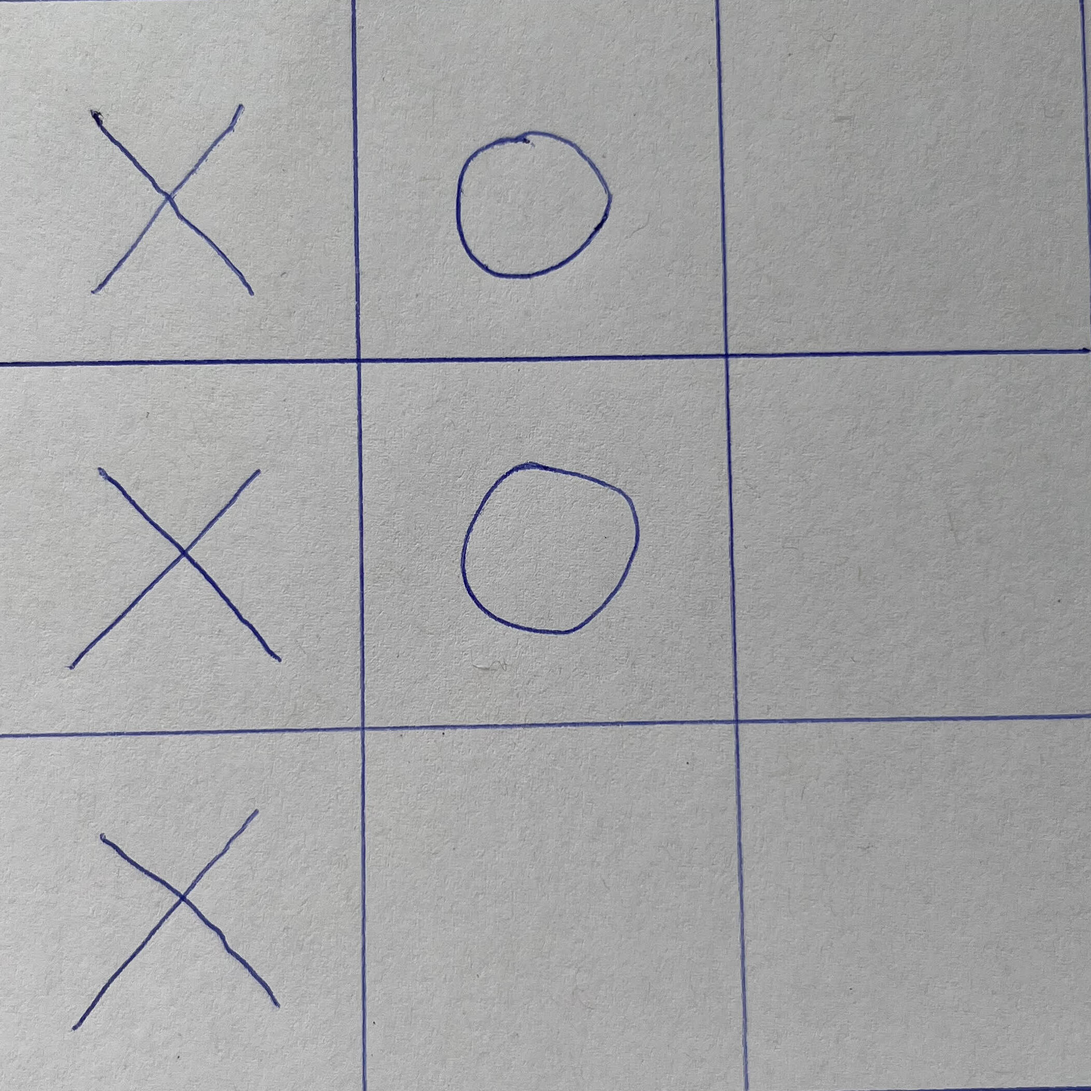
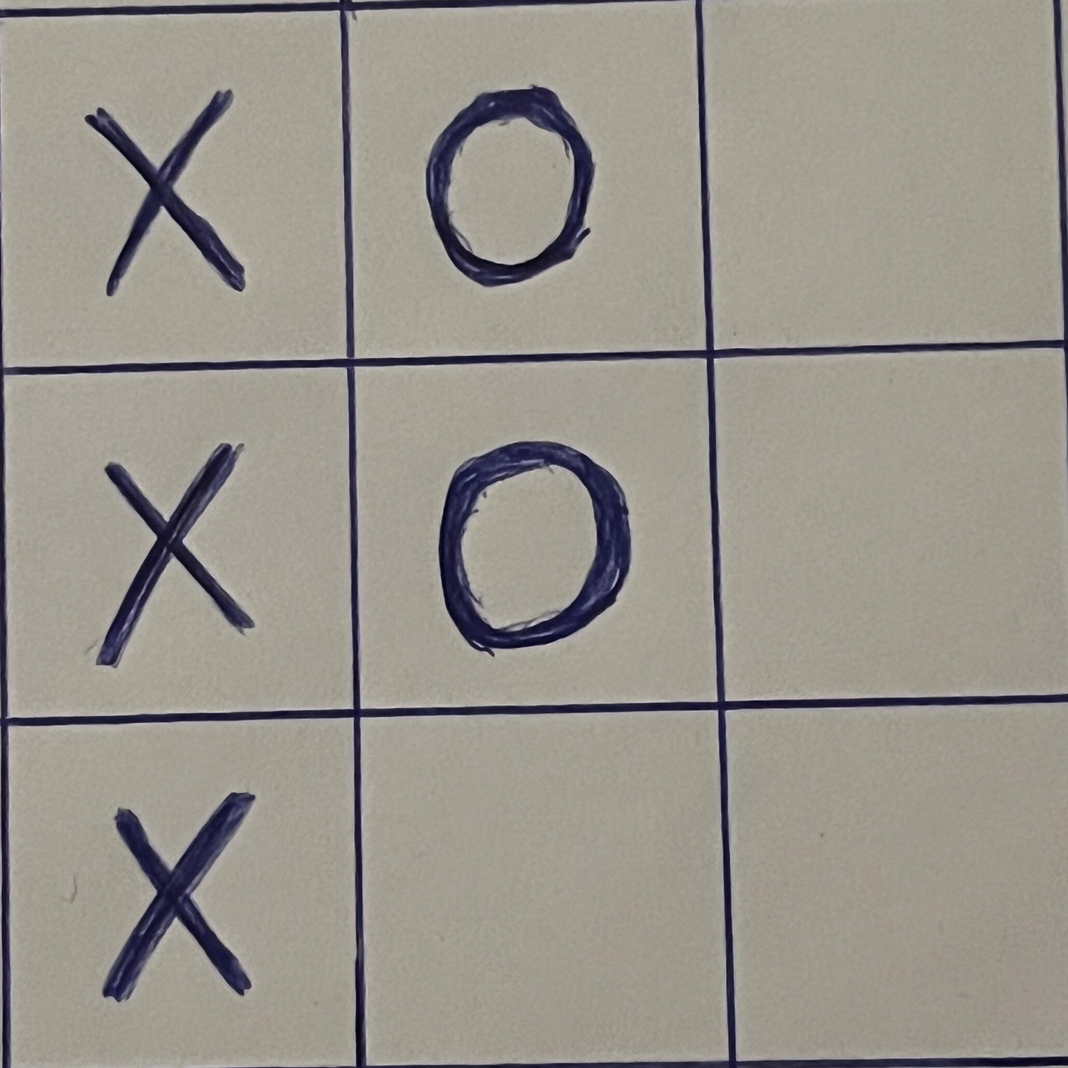
add hand drawn image

diff --git a/server/image_processing.py b/server/image_processing.py
@@ -5,7 +5,16 @@ import pytesseract
 from server.game_state import Symbol
 
 
-BORDER_CROP = 5 / 100
+BORDER_CROP = 10 / 100
+IMAGE_THRESHOLD = 100
+
+
+def preprocess_image(image: Image.Image) -> Image.Image:
+    grayscaled_image = image.convert("L")
+    binarized_image = grayscaled_image.point(
+        lambda p: 255 if p > IMAGE_THRESHOLD else 0
+    )
+    return binarized_image
 
 
 def crop_cell(image: Image.Image, *, row: int, col: int) -> Image.Image:
@@ -23,16 +32,17 @@ def crop_cell(image: Image.Image, *, row: int, col: int) -> Image.Image:
 
 def get_char_from_image(image: Image.Image) -> Symbol:
     char = str(pytesseract.image_to_string(image, config="--psm 10", lang="eng"))
-    return Symbol.from_char(char)
+    return Symbol.from_char(char[0] if len(char) > 0 else " ")
 
 
 def get_board_from_file(file: BinaryIO) -> list[list[Symbol]]:
     with Image.open(file) as uploaded_image:
+        preprocessed_image = preprocess_image(uploaded_image)
         image_array: list[list[Symbol]] = []
         for row in range(3):
             column_array: list[Symbol] = []
             for col in range(3):
-                cell = crop_cell(uploaded_image, row=row, col=col)
+                cell = crop_cell(preprocessed_image, row=row, col=col)
                 column_array.append(get_char_from_image(cell))
             image_array.append(column_array)
     return image_array

diff --git a/server/test_image_processing.py b/server/test_image_processing.py
@@ -10,3 +10,13 @@ def test_image() -> None:
         [Symbol.X, Symbol.O, Symbol.EMPTY],
         [Symbol.X, Symbol.EMPTY, Symbol.EMPTY],
     ]
+
+
+def test_hand_drawn() -> None:
+    with open("hand_drawn.jpg", "rb") as image_file:
+        board = get_board_from_file(image_file)
+    assert board == [
+        [Symbol.X, Symbol.O, Symbol.EMPTY],
+        [Symbol.X, Symbol.O, Symbol.EMPTY],
+        [Symbol.X, Symbol.EMPTY, Symbol.EMPTY],
+    ]

diff --git a/server/game_state.py b/server/game_state.py
@@ -20,7 +20,7 @@ class Symbol(enum.Enum):
         stripped = char.strip()
         if stripped in ["o", "O"]:
             return Symbol.O
-        if stripped in ["x", "X"]:
+        if stripped in ["x", "X", "4"]:
             return Symbol.X
         return Symbol.EMPTY
 
